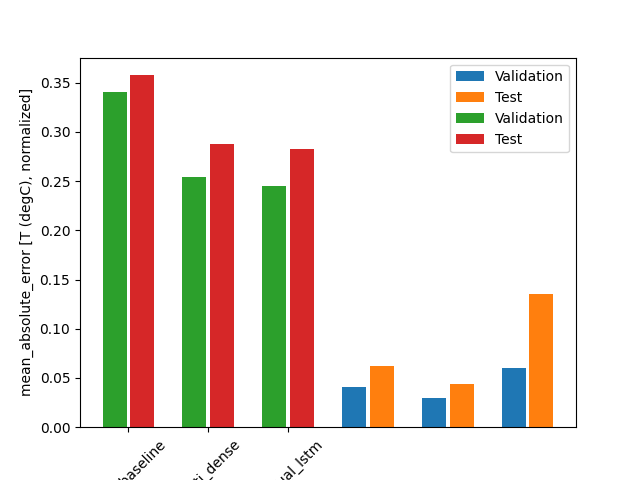
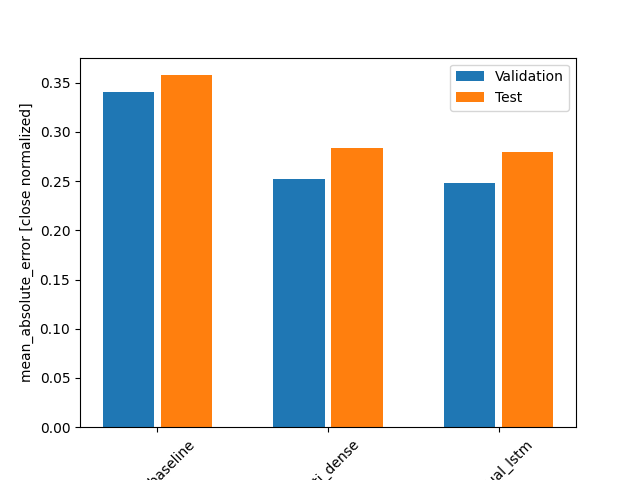
test: add fixed results

diff --git a/single_step_models.py b/single_step_models.py
@@ -69,13 +69,14 @@ def plot(val_performance=VAL_PERFORMANCE, performance=PERFORMANCE, plotname = 'N
     val_mae = [v[metric_name] for v in val_performance.values()]
     test_mae = [v[metric_name] for v in performance.values()]
 
-    plt.ylabel('mean_absolute_error [T (degC), normalized]')
+    plt.ylabel('mean_absolute_error [close normalized]')
     plt.bar(x - 0.17, val_mae, width, label='Validation')
     plt.bar(x + 0.17, test_mae, width, label='Test')
     plt.xticks(ticks=x, labels=performance.keys(),
               rotation=45)
     _ = plt.legend()
     plt.savefig(f'Training/plots/{plotname}')
+    plt.close()
 
 
 def main():
